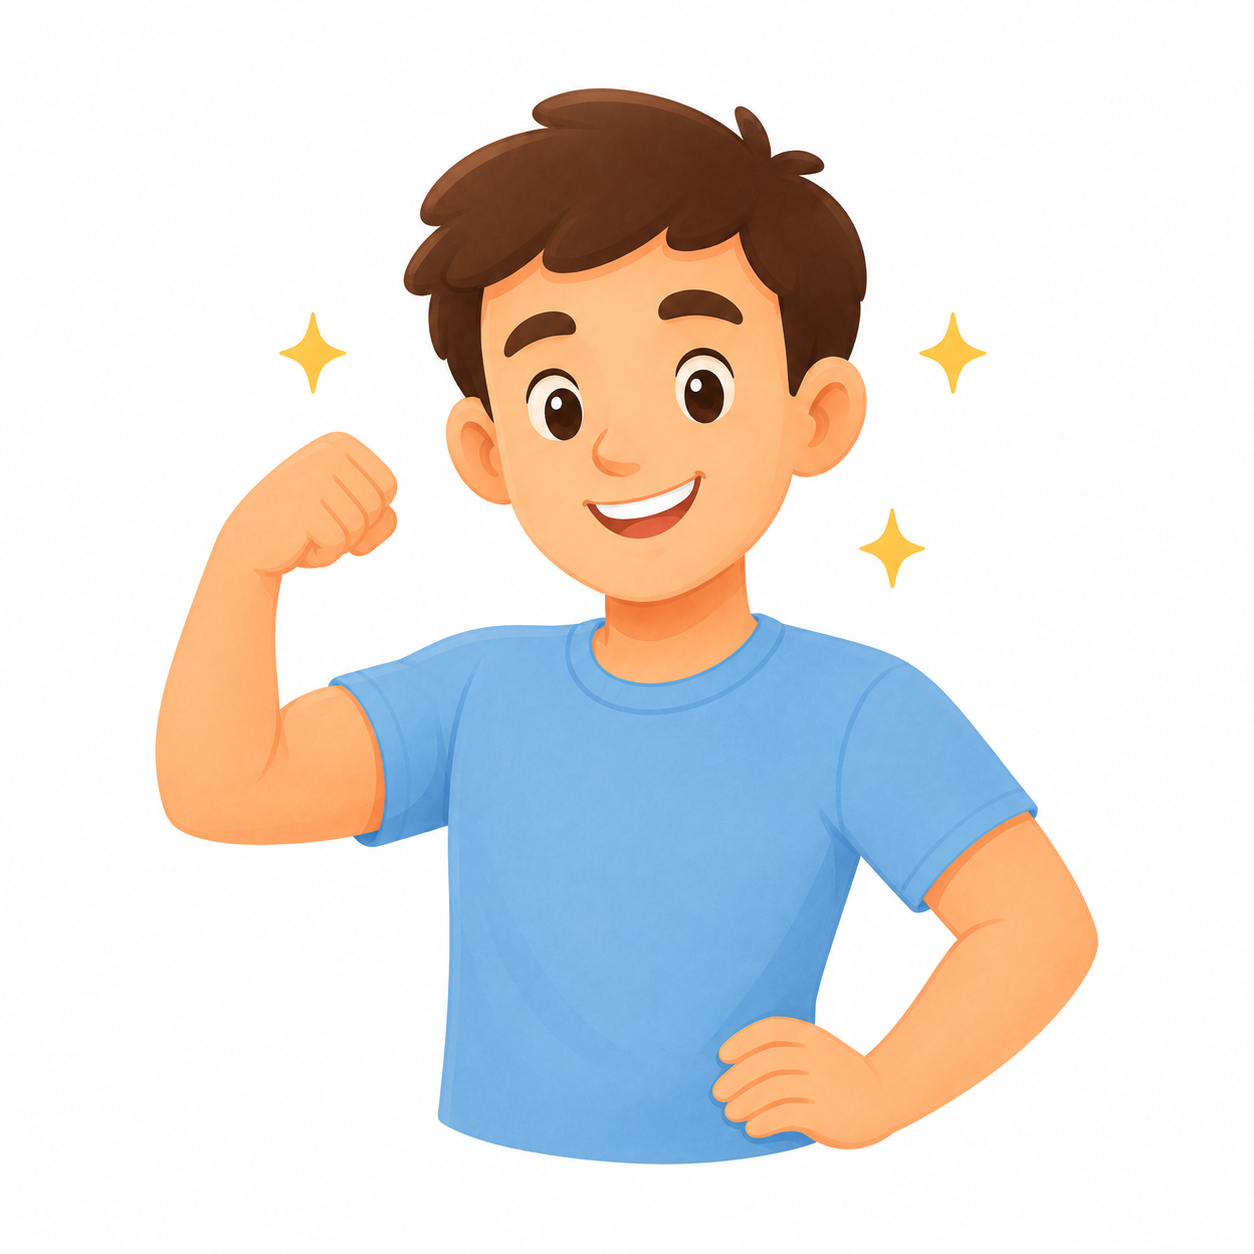
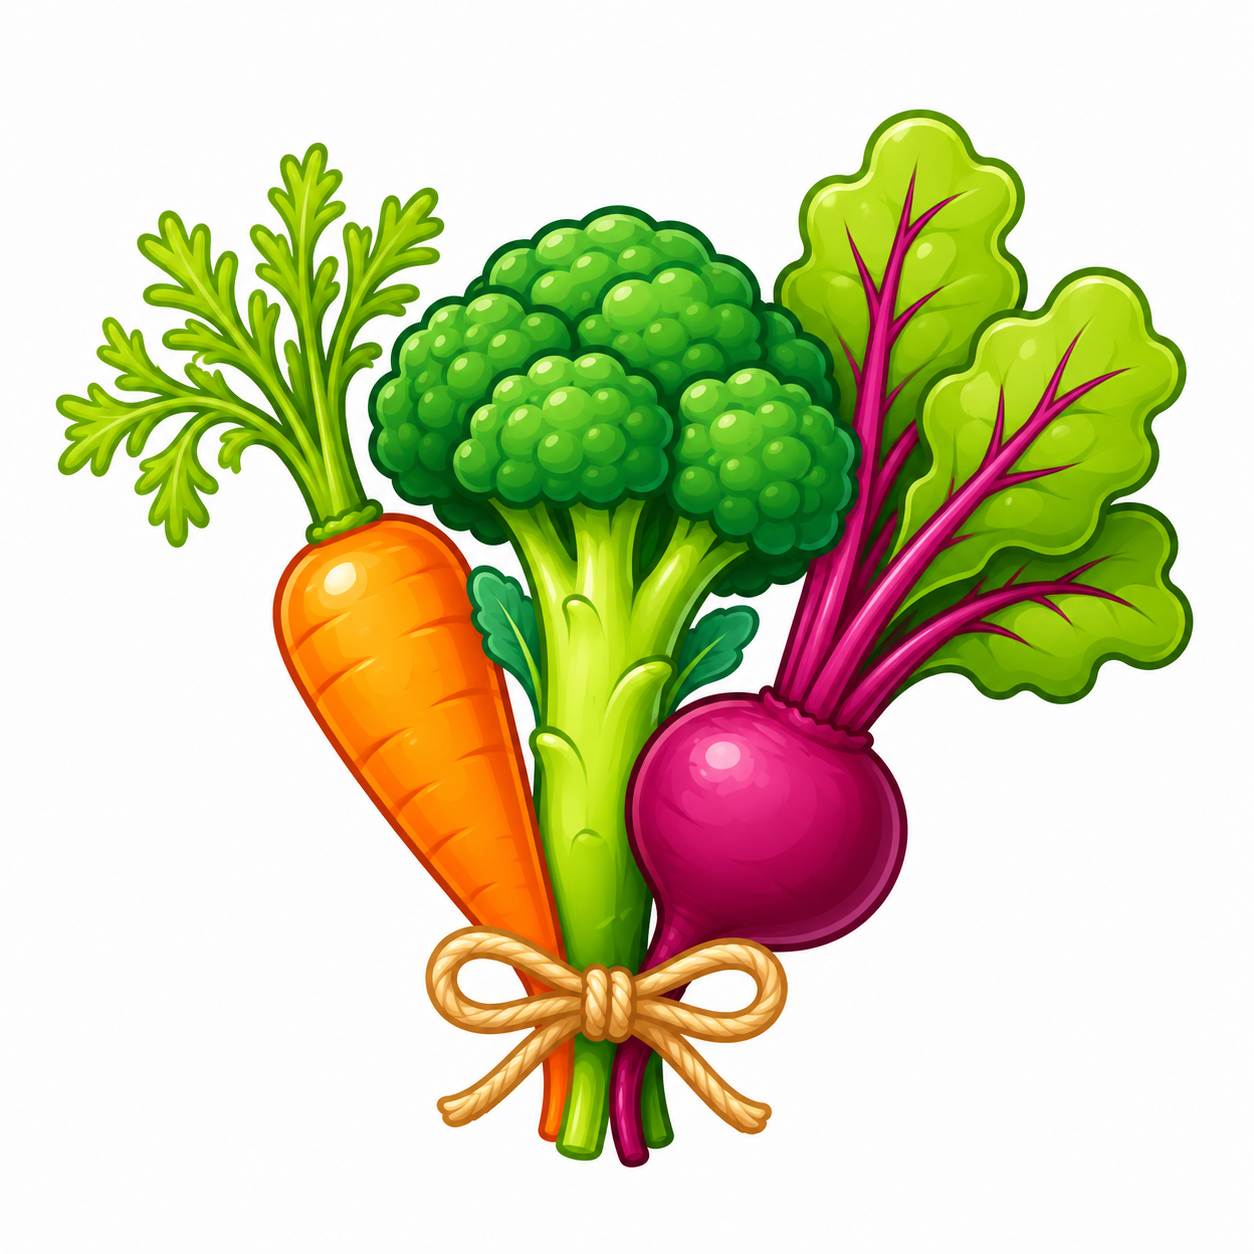
feat: stage 7 improve word learning flow

diff --git a/frontend/swirl_app/lib/presentation/screens/learn_word_screen.dart b/frontend/swirl_app/lib/presentation/screens/learn_word_screen.dart
@@ -6,6 +6,7 @@ import 'package:flutter_riverpod/flutter_riverpod.dart';
 import 'package:go_router/go_router.dart';
 
 import '../../app/router.dart';
+import '../../core/utils/api_error_utils.dart';
 import '../../core/utils/media_url_builder.dart';
 import '../../domain/models/level_model.dart';
 import '../../domain/models/word_model.dart';
@@ -177,7 +178,7 @@ class _LearnWordScreenState extends ConsumerState<LearnWordScreen> {
           .map((word) => word.id)
           .where((id) => id > 0)
           .toList();
-      if (wordIds.isNotEmpty) {
+      if (wordIds.isNotEmpty && _levelDetails?.isFinalTest != true) {
         await ref
             .read(learningControllerProvider)
             .markLevelWordsLearned(levelId, wordIds: wordIds);
@@ -365,7 +366,10 @@ class _LearnWordScreenState extends ConsumerState<LearnWordScreen> {
   }
 
   String _messageFromError(Object error) {
-    return error.toString().replaceFirst('Exception: ', '');
+    return friendlyErrorMessage(
+      error,
+      fallback: 'Не удалось загрузить слова. Попробуйте еще раз.',
+    );
   }
 }
 
@@ -396,15 +400,18 @@ class _Header extends StatelessWidget {
             ),
           ),
           Center(
-            child: Text(
-              title,
-              maxLines: 1,
-              overflow: TextOverflow.ellipsis,
-              textAlign: TextAlign.center,
-              style: TextStyle(
-                color: Colors.white,
-                fontSize: 31,
-                fontWeight: FontWeight.w800,
+            child: Padding(
+              padding: const EdgeInsets.symmetric(horizontal: 54),
+              child: Text(
+                title,
+                maxLines: 1,
+                overflow: TextOverflow.ellipsis,
+                textAlign: TextAlign.center,
+                style: const TextStyle(
+                  color: Colors.white,
+                  fontSize: 31,
+                  fontWeight: FontWeight.w800,
+                ),
               ),
             ),
           ),
@@ -463,88 +470,97 @@ class _WordsCompleteSheet extends StatelessWidget {
 
   @override
   Widget build(BuildContext context) {
-    return Container(
-      padding: EdgeInsets.fromLTRB(
-        28,
-        22,
-        28,
-        20 + MediaQuery.paddingOf(context).bottom,
-      ),
-      decoration: const BoxDecoration(
-        color: Colors.white,
-        borderRadius: BorderRadius.vertical(top: Radius.circular(10)),
-      ),
-      child: SafeArea(
-        top: false,
-        child: Column(
-          mainAxisSize: MainAxisSize.min,
-          children: [
-            Row(
-              crossAxisAlignment: CrossAxisAlignment.center,
+    final maxHeight = MediaQuery.sizeOf(context).height * 0.9;
+
+    return ConstrainedBox(
+      constraints: BoxConstraints(maxHeight: maxHeight),
+      child: Container(
+        padding: EdgeInsets.fromLTRB(
+          28,
+          22,
+          28,
+          20 + MediaQuery.paddingOf(context).bottom,
+        ),
+        decoration: const BoxDecoration(
+          color: Colors.white,
+          borderRadius: BorderRadius.vertical(top: Radius.circular(10)),
+        ),
+        child: SafeArea(
+          top: false,
+          child: SingleChildScrollView(
+            child: Column(
+              mainAxisSize: MainAxisSize.min,
               children: [
-                Expanded(
-                  child: Column(
-                    crossAxisAlignment: CrossAxisAlignment.start,
-                    children: [
-                      Text(
-                        _completeSheetLevelLabel(details),
-                        maxLines: 1,
-                        overflow: TextOverflow.ellipsis,
-                        style: TextStyle(
-                          fontFamily: 'Montserrat',
-                          color: _LearnWordScreenState._purpleColor,
-                          fontSize: 20,
-                          fontWeight: FontWeight.w500,
-                          height: 1.05,
-                        ),
+                Row(
+                  crossAxisAlignment: CrossAxisAlignment.center,
+                  children: [
+                    Expanded(
+                      child: Column(
+                        crossAxisAlignment: CrossAxisAlignment.start,
+                        children: [
+                          Text(
+                            _completeSheetLevelLabel(details),
+                            maxLines: 2,
+                            overflow: TextOverflow.ellipsis,
+                            style: const TextStyle(
+                              fontFamily: 'Montserrat',
+                              color: _LearnWordScreenState._purpleColor,
+                              fontSize: 19,
+                              fontWeight: FontWeight.w500,
+                              height: 1.08,
+                            ),
+                          ),
+                          const SizedBox(height: 8),
+                          const Text(
+                            'Слова изучены',
+                            maxLines: 2,
+                            overflow: TextOverflow.ellipsis,
+                            style: TextStyle(
+                              fontFamily: 'Montserrat',
+                              color: _LearnWordScreenState._solidCardColor,
+                              fontSize: 30,
+                              fontWeight: FontWeight.w800,
+                              height: 1.04,
+                            ),
+                          ),
+                        ],
                       ),
-                      const SizedBox(height: 8),
-                      const Text(
-                        'Слова изучены',
-                        style: TextStyle(
-                          fontFamily: 'Montserrat',
-                          color: _LearnWordScreenState._solidCardColor,
-                          fontSize: 31,
-                          fontWeight: FontWeight.w800,
-                          height: 1.04,
-                        ),
+                    ),
+                    const SizedBox(width: 8),
+                    SizedBox(
+                      width: 126,
+                      height: 126,
+                      child: Image.asset(
+                        'images/mascot_levels/words_complete.png',
+                        fit: BoxFit.contain,
+                        errorBuilder: (_, _, _) => const SizedBox.shrink(),
                       ),
-                    ],
-                  ),
+                    ),
+                  ],
                 ),
-                const SizedBox(width: 8),
-                SizedBox(
-                  width: 162,
-                  height: 162,
-                  child: Image.asset(
-                    'images/mascot_levels/words_complete.png',
-                    fit: BoxFit.contain,
-                    errorBuilder: (_, _, _) => const SizedBox.shrink(),
+                const SizedBox(height: 18),
+                FilledButton(
+                  onPressed: onStartTraining,
+                  style: FilledButton.styleFrom(
+                    backgroundColor: _LearnWordScreenState._purpleColor,
+                    foregroundColor: Colors.white,
+                    minimumSize: const Size.fromHeight(52),
+                    shape: RoundedRectangleBorder(
+                      borderRadius: BorderRadius.circular(10),
+                    ),
+                  ),
+                  child: const Text(
+                    'К тренировке',
+                    style: TextStyle(
+                      fontFamily: 'Montserrat',
+                      fontSize: 18,
+                      fontWeight: FontWeight.w600,
+                    ),
                   ),
                 ),
               ],
             ),
-            const SizedBox(height: 18),
-            FilledButton(
-              onPressed: onStartTraining,
-              style: FilledButton.styleFrom(
-                backgroundColor: _LearnWordScreenState._purpleColor,
-                foregroundColor: Colors.white,
-                minimumSize: const Size.fromHeight(52),
-                shape: RoundedRectangleBorder(
-                  borderRadius: BorderRadius.circular(10),
-                ),
-              ),
-              child: const Text(
-                'К тренировке',
-                style: TextStyle(
-                  fontFamily: 'Montserrat',
-                  fontSize: 18,
-                  fontWeight: FontWeight.w600,
-                ),
-              ),
-            ),
-          ],
+          ),
         ),
       ),
     );

diff --git a/backend/Swirl.Api/Services/WordLearningService.cs b/backend/Swirl.Api/Services/WordLearningService.cs
@@ -26,14 +26,16 @@ public class WordLearningService : IWordLearningService
     {
         var access = await GetAccessibleLevelAsync(userId, levelId, cancellationToken);
 
-        if (access.Level.IsFinalTest)
-        {
-            return new List<WordResponse>();
-        }
-
         return await _context.Words
-            .Where(word => word.LevelId == levelId && word.IsActive)
-            .OrderBy(word => word.Id)
+            .Where(word =>
+                word.IsActive
+                && (access.Level.IsFinalTest
+                    ? word.Level.SectionId == access.Level.SectionId
+                        && word.Level.IsActive
+                        && !word.Level.IsFinalTest
+                    : word.LevelId == levelId))
+            .OrderBy(word => word.Level.LevelNumber)
+            .ThenBy(word => word.Id)
             .Select(word => new WordResponse
             {
                 Id = word.Id,

diff --git a/backend/Swirl.Api/Data/DatabaseSeeder.cs b/backend/Swirl.Api/Data/DatabaseSeeder.cs
@@ -527,13 +527,18 @@ public static class DatabaseSeeder
     {
         var usesRussianOptions = exercise.Type is "english_to_russian_choice" or "audio_to_russian_choice";
         var correctAnswer = exercise.CorrectAnswer;
-        var incorrectOptions = sectionWords
+        var candidates = sectionWords
             .Where(word => word.Level.SectionId == exercise.Word.Level.SectionId && word.Id != exercise.WordId)
             .OrderBy(word => Math.Abs(word.Level.LevelNumber - exercise.Word.Level.LevelNumber))
             .ThenBy(word => word.Level.LevelNumber)
             .ThenBy(word => word.Id)
             .Select(word => usesRussianOptions ? word.Russian : word.English)
             .Where(option => !string.Equals(option, correctAnswer, StringComparison.OrdinalIgnoreCase))
+            .Distinct()
+            .ToArray();
+        var incorrectOptions = candidates
+            .Skip(((exercise.SortOrder ?? 1) - 1) * 3 % Math.Max(candidates.Length, 1))
+            .Concat(candidates)
             .Distinct()
             .Take(3)
             .ToArray();
@@ -768,6 +773,11 @@ public static class DatabaseSeeder
 
     private static string GetLevelCefrLevel(int levelNumber)
     {
+        if (levelNumber == FinalTestLevelNumber)
+        {
+            return "B2";
+        }
+
         if (levelNumber == 1 || levelNumber == 2)
         {
             return "A1";
@@ -788,7 +798,7 @@ public static class DatabaseSeeder
             return "B1/B2";
         }
 
-        return "mixed";
+        return "B2";
     }
 
     private static string GetLevelDescription(string sectionTitle, int levelNumber)